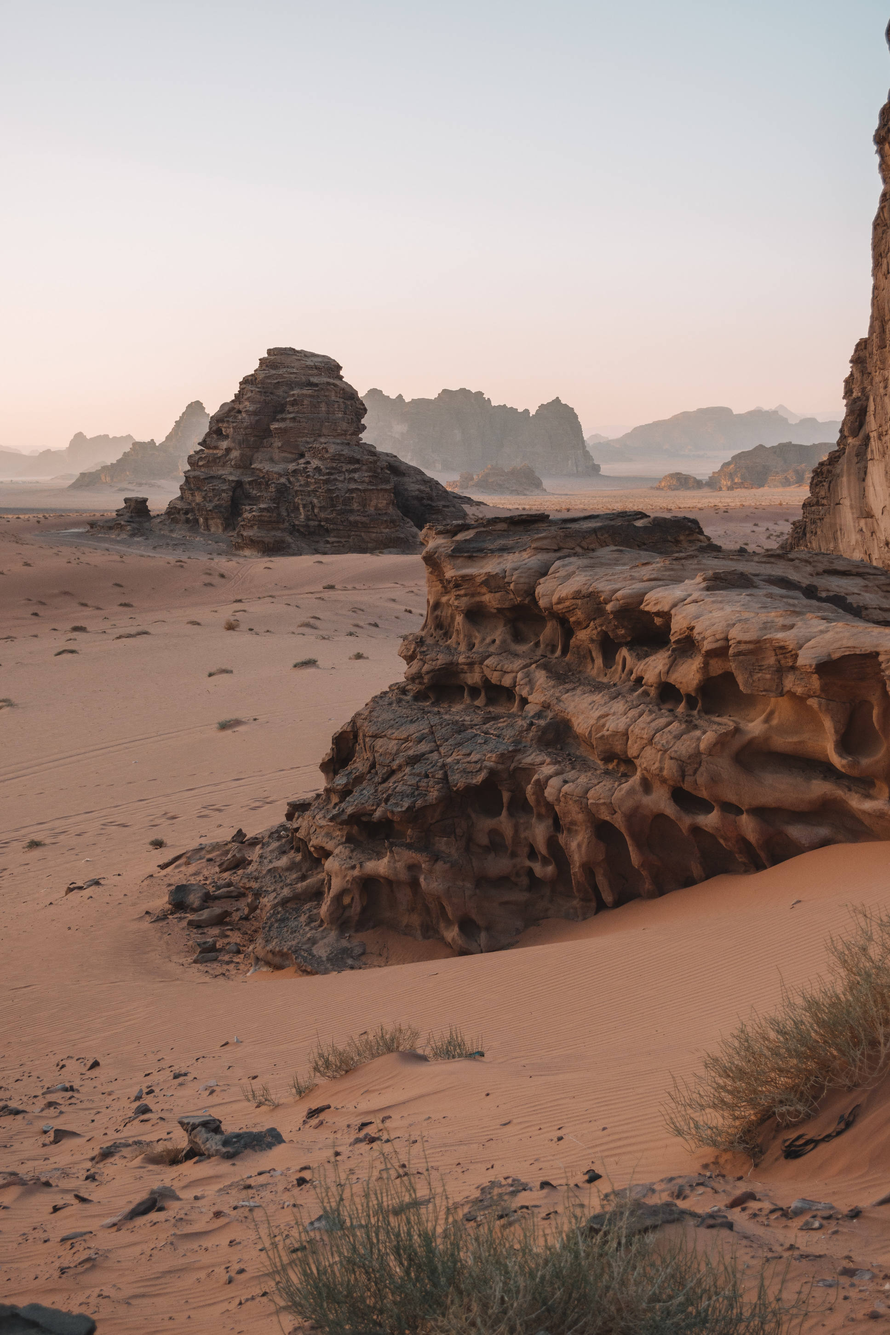
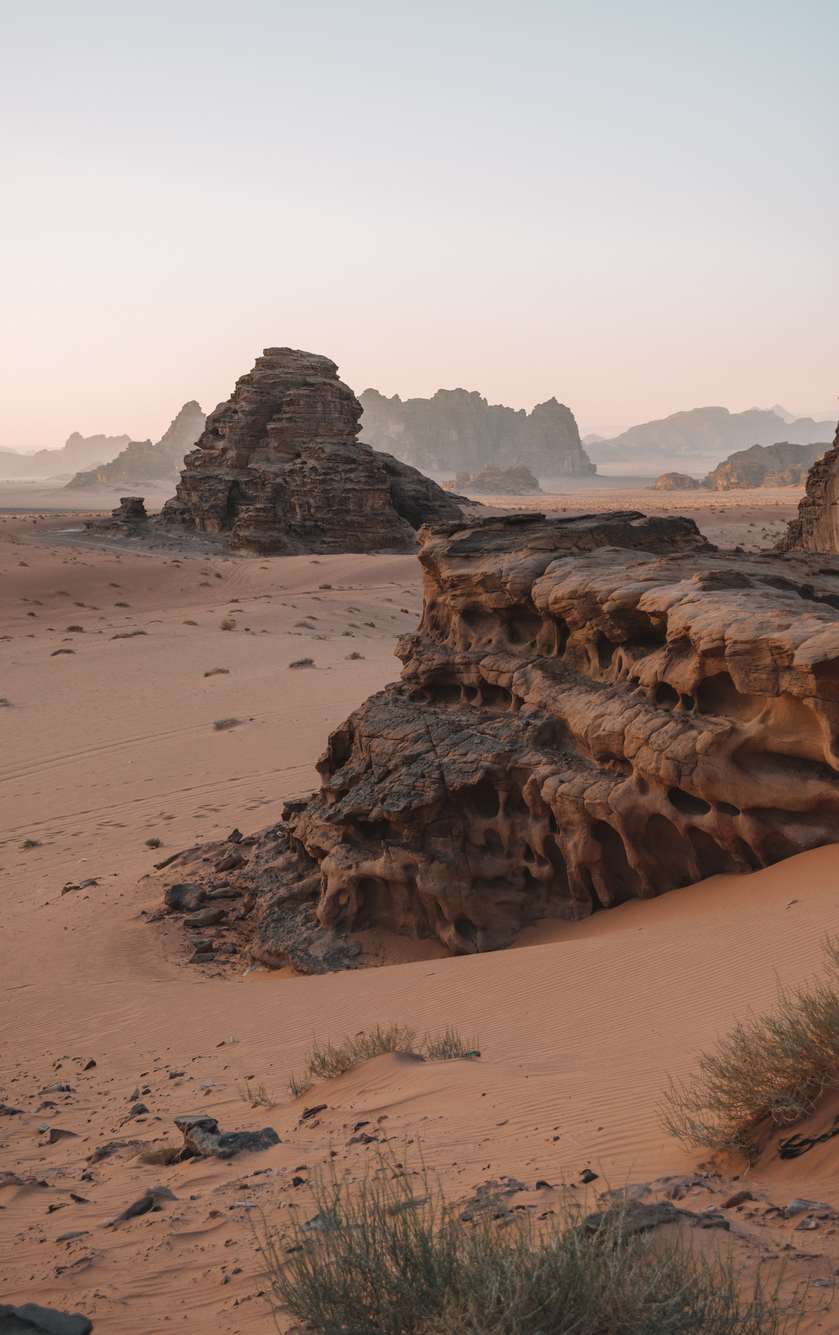
- changed cactus.png from black to white - cropped desert.jpg - small styling improvements - changed content slightly

diff --git a/style.css b/style.css
@@ -14,26 +14,54 @@ input {
   height: 30px;
   width: 70%;
 }
-
-span {
-    font-style:italic;
-}
-
-photo {
-    display: flex;
-    flex-direction: column;
-}
-
-img {
-    object-fit: cover;
-    overflow: hidden;
-}
-
+/*LEFT SIDE*/
 leftside {
     width: 40%;
     height: 100%;
 }
 
+photo {
+    display: flex;
+    flex-direction: column;
+    position: relative;
+}
+
+.desert {
+    object-fit: cover;
+    overflow: hidden;
+}
+
+.credit {
+  position: absolute;
+  bottom: 1px;
+  color: white;
+  font-size: 12px;
+}
+
+.cactus {
+  object-fit: contain;
+  width: 20%;
+  padding: 10px 0px;
+}
+
+logo {
+    display: flex;
+    justify-content: center;
+    background-color: #00000057;
+    position: absolute;
+    top: 120px;
+    height: 100px;
+    width: 100%;
+}
+
+.logoname {
+    color: white;
+    font-size: 80px;
+}
+
+/*RIGHT SIDE */
+
+/* HEADER */
 rightside {
     background-color: #d3d6db2b;
     border: 30px;
@@ -47,8 +75,13 @@ header {
     flex: 0, 1, auto;
     height: 33%;
     justify-content: center;
-    padding: 40px;
-    font-size: 22px;
+    padding: 0px 40px;
+    font-size: 24px;
+    font-weight: 600;
+}
+
+span {
+    font-style:italic;
 }
 
 header > div {
@@ -58,6 +91,8 @@ header > div {
 header > p {
   padding-top: 20px;
 }
+
+/* FORM */
 
 form {
     background-color: white;
@@ -76,6 +111,7 @@ form > div {
     width: 50%;
 }
 
+/* FOOTER */
 
 footer {
     position: relative;
@@ -85,7 +121,11 @@ footer {
     flex: 0, 1, auto
 }
 
+footer > div {
+  padding: 10px 0px;
+}
 #create {
+    background-color: #fbfbfb;
     width: 30%;
     flex-shrink: 0;
 }

diff --git a/index.html b/index.html
@@ -10,19 +10,22 @@
 <body>
     <leftside>
         <photo>
-            <img src="./images/desert.jpg" alt="">
-            <div>Photo by Alex Azabache on Unsplash</div>
+            <img class = "desert" src="./images/desert.jpg" alt="desert landscape">
+            <div class="credit">Photo by Alex Azabache on Unsplash</div>
+            <logo>
+                <img class = "cactus" src="./images/cactus.png" alt="cactus logo">
+                <div class ="logoname">Dryify</div>
+            </logo>
         </photo>
     </leftside>
     <rightside>
         <header>
-            <div>This is not a real online Service! You know you need something
-                like this in your life to help you realize your deepest dreams.</div>
+            <div>This is not a real online service! Adventure, parched lips, chapped cheeks, dehydration - the desert awaits.</div>
             <div>Sign up <span>now</span> to get started.</div>
             <p>You <span>know</span> you want to.</p>
         </header>
         <form action = "github.io/trygve-f/accountcreated" method ="post">
-            <h2 class="formheader">Lets get started!</h1>
+            <h2 class="formheader">Begin your journey!</h1>
             <div>
                 <label for ="first name">First Name</label>
                 <input type="text" name="first name" id="first name">
